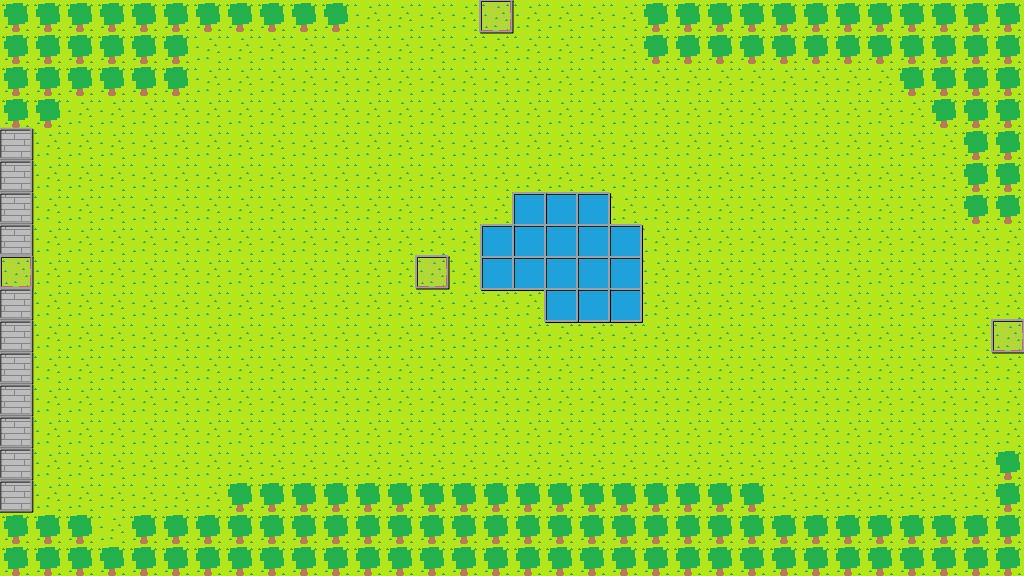
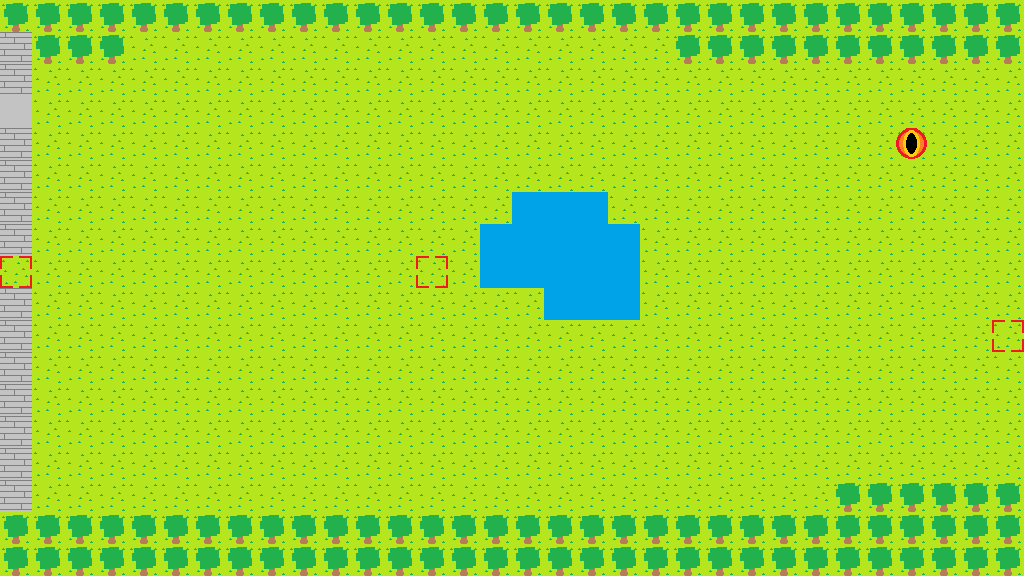
Visual fix

diff --git a/MinioningClient/Visualization/src/main/java/minioning/visuals/Render.java b/MinioningClient/Visualization/src/main/java/minioning/visuals/Render.java
@@ -50,7 +50,7 @@ public class Render {
     // Background
     private Texture backgroundTexture_1;
     private Texture backgroundTexture_2;
-
+    private Texture backgroundTexture_3;
     // Entities
     private Texture playerTexture;
     private Texture enemyTexture;
@@ -60,7 +60,6 @@ public class Render {
 
     // Shaperender
     private ShapeRenderer sr = new ShapeRenderer();
-
     //  Get local values
     private float width = LocalData.getWidth();
     private float height = LocalData.getWidth();
@@ -78,6 +77,9 @@ public class Render {
     private TextureRegionDrawable buttonTexRegionDrawable;
     private ImageButton button;
 
+    private float elapsed = 0;
+    private float lastTime = elapsed;
+    
     /**
      * Class constructer
      */
@@ -121,10 +123,7 @@ public class Render {
         BitmapFont font = new BitmapFont();
         font.setColor(Color.WHITE);
         font.getData().setScale(2f);
-//
-//        // Sets custom cursor
-//        Cursor customCursor = Gdx.graphics.newCursor(new Pixmap(Gdx.files.internal(RESOURCE_ROOT + "graphics/" + "cursor.png")), 16, 16);
-//        Gdx.graphics.setCursor(customCursor);
+
 
         // Draw
         batch.begin();
@@ -137,7 +136,7 @@ public class Render {
         font.dispose();
 
     }
-
+    
     private void drawCustomCursor() {
         // Sets custom cursor
         Cursor customCursor = Gdx.graphics.newCursor(new Pixmap(Gdx.files.internal(RESOURCE_ROOT + "graphics/" + "cursor.png")), 16, 16);
@@ -154,8 +153,10 @@ public class Render {
 
         System.out.println("Loading bg textures");
         try {
+            this.backgroundTexture_3 = new Texture(RESOURCE_ROOT + "map/" + "wilderness_east.png");
             this.backgroundTexture_2 = new Texture(RESOURCE_ROOT + "map/" + "arena.png");
             this.backgroundTexture_1 = new Texture(RESOURCE_ROOT + "map/" + "wilderness.png");
+
             System.out.println("bg textures loaded succesfully");
         } catch (Exception e) {
             System.out.println("Failed to load bg textures: " + e);
@@ -209,18 +210,6 @@ public class Render {
             stage.addActor(button);
             Gdx.input.setInputProcessor(stage);
 
-//            button.addListener(new ClickListener() {
-//                @Override
-//                public boolean handle(Event event) {
-//                    if (Gdx.input.isButtonPressed(Input.Buttons.LEFT)) {
-//
-//                        System.out.println("Button Pressed");
-//
-//                        return true;
-//                    }
-//                    return false;
-//                }
-//            });
             stage.act(Gdx.graphics.getDeltaTime());
             stage.draw();
 
@@ -228,9 +217,30 @@ public class Render {
             batch.dispose();
         }
     }
-    float elapsed = 0;
-    float lastTime = elapsed;
 
+    
+    
+    private Sprite setSprite(Entity entity){
+         Sprite sprite;
+
+                    // Loads appropriate sprites
+                    if (entity.getOwner().equals(LocalData.getClientID())) {
+                        sprite = new Sprite(playerTexture, 0, 0, sizeL, sizeL);
+                    } else if (entity.getType() == ENEMY) {
+                        sprite = new Sprite(enemyTexture, 0, 0, sizeL, sizeL);
+                    } else if (entity.getType() == PORTAL) {
+                        sprite = new Sprite(portalTexture, 0, 0, sizeL, sizeL);
+                    } else if (entity.getType() == HOLYBOLT) {
+                        sprite = new Sprite(missile1Texture, 0, 0, sizeS, sizeS);
+                    } else {
+                        sprite = new Sprite(portalTexture, 0, 0, sizeL, sizeL);
+                    }
+                    entity.setSprite(sprite);
+        
+        
+        return sprite;
+    }
+    
     /**
      * Draws sprites to represent entities in world
      *
@@ -251,8 +261,10 @@ public class Render {
                 try {
                     if (bgString.contentEquals("arena")) {
                         backgroundSprite = new Sprite(backgroundTexture_2);
-                    } else {
+                    } else if (bgString.contentEquals("wilderness")) {
                         backgroundSprite = new Sprite(backgroundTexture_1);
+                    } else if (bgString.contentEquals("wilderness_east")) {
+                        backgroundSprite = new Sprite(backgroundTexture_3);
                     }
                 } catch (Exception e) {
                     System.out.println("Error in render: " + e);
@@ -260,32 +272,18 @@ public class Render {
                 backgroundSprite.draw(batch);
             }
         }
+        
         // Sets sprites for entities
         for (Entity entity : world.values()) {
-
             if (entity.getLocation().equals(LocalData.getLocation())) {
-
                 if (entity.getSprite() == null) {
-                    Sprite sprite;
-
-                    // Loads appropriate sprites
-                    if (entity.getOwner().equals(LocalData.getClientID())) {
-                        sprite = new Sprite(playerTexture, 0, 0, sizeL, sizeL);
-                    } else if (entity.getType() == ENEMY) {
-                        sprite = new Sprite(enemyTexture, 0, 0, sizeL, sizeL);
-                    } else if (entity.getType() == PORTAL) {
-                        sprite = new Sprite(portalTexture, 0, 0, sizeL, sizeL);
-                    } else if (entity.getType() == HOLYBOLT) {
-                        sprite = new Sprite(missile1Texture, 0, 0, sizeS, sizeS);
-                    } else {
-                        sprite = new Sprite(portalTexture, 0, 0, sizeL, sizeL);
-                    }
-                    entity.setSprite(sprite);
+                   
+                    Sprite sprite = setSprite(entity);
 
                     Vector2D ownVelocity = entity.getVelocity();
                     Vector2 velocity = new Vector2(ownVelocity.getX(), ownVelocity.getY());
                     /*
-                     den her væk?
+                     den her vÃ¦k?
                      Vector2 vTarget = new Vector2(entity.getvxg(), entity.getvyg());
                      */
                     Interpolation interpolation = Interpolation.linear;
@@ -296,7 +294,7 @@ public class Render {
                     float progess = Math.min(1f, elapsed / updateTime);
                     float alpha = interpolation.apply(progess);
                     /*
-                     den her ændres? vTarget??
+                     den her Ã¦ndres? vTarget??
                      velocity.interpolate(vTarget, alpha, interpolation);
                      */
 //                    float x = entity.getX()*vPos.x;

diff --git a/MinioningClient/Visualization/src/main/java/minioning/visuals/VisualProcess.java b/MinioningClient/Visualization/src/main/java/minioning/visuals/VisualProcess.java
@@ -144,6 +144,7 @@ public class VisualProcess implements IProcessingService, ApplicationListener {
 
     @Override
     public void resume() {
+    render();
     }
 
     @Override
